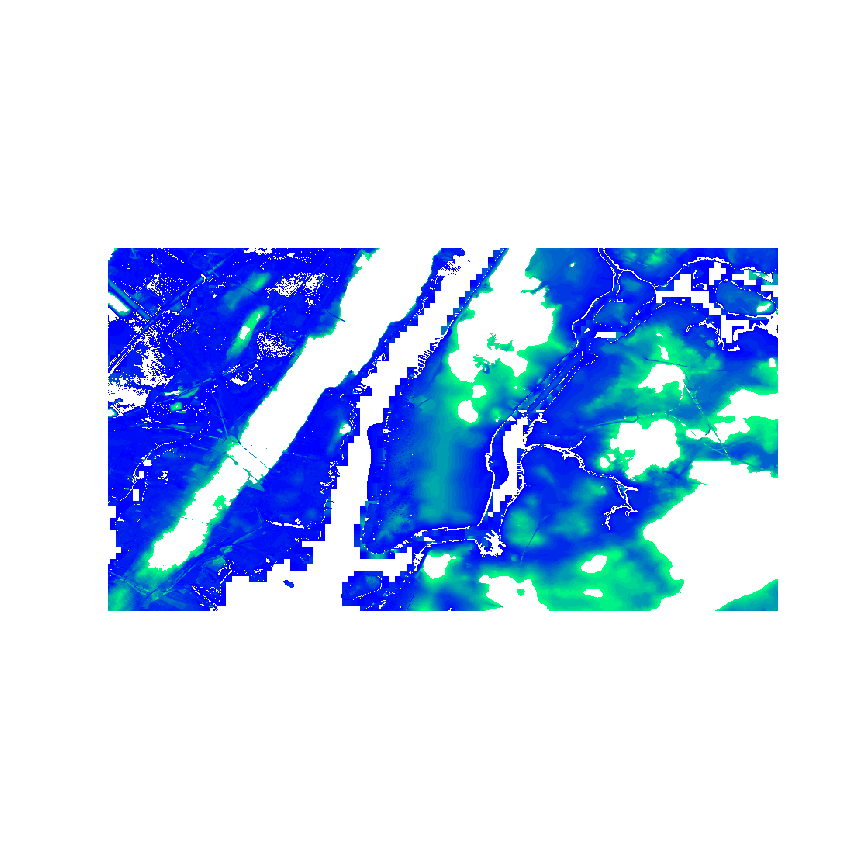
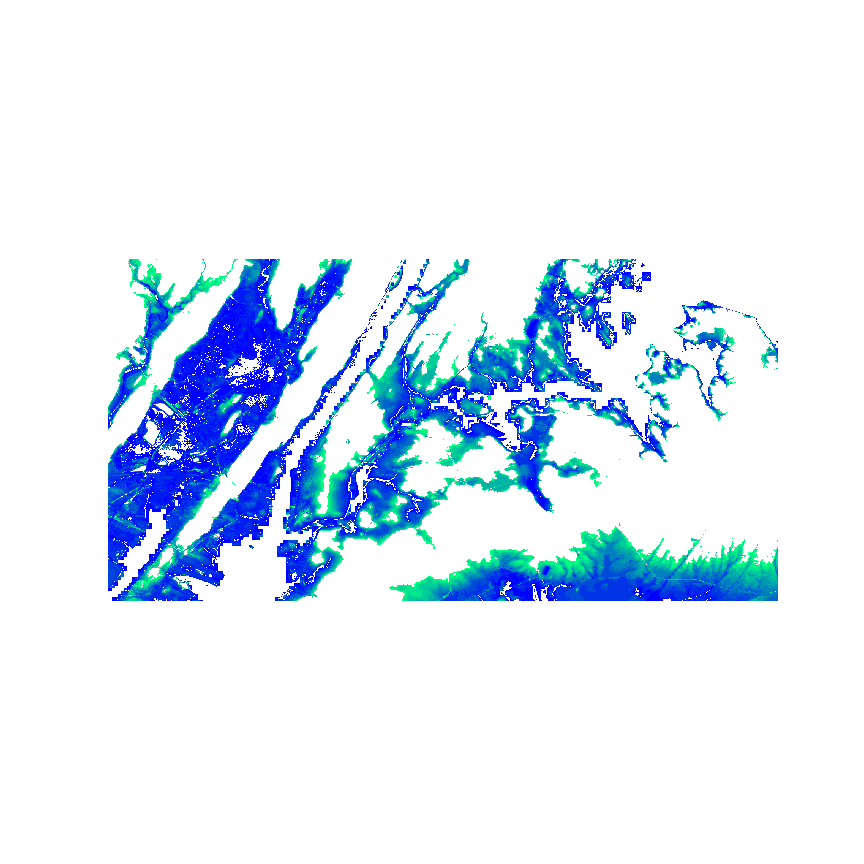
remvove old masks, temp fix on masks which go wonky

Changed region(s): [[0.125, 0.2812, 0.9062, 0.7188]]

diff --git a/templates/new_york.html b/templates/new_york.html
@@ -408,6 +408,10 @@ map.on('load', function () {
       numFeet.textContent = feet.toFixed(1);
 
       if (meters > 0){
+        //temp fix for every 10 error
+        if (meters % 10 == 0){
+          meters += 2 
+        }
         meters -= 1;
         var idg = "image_"+meters.toString();
         console.log(idg);

diff --git a/app.py b/app.py
@@ -5,6 +5,7 @@ from flask import Response
 from flask import render_template
 from model import gen_slr
 
+
 application = Flask(__name__, 
         template_folder="templates",
         static_folder="",
